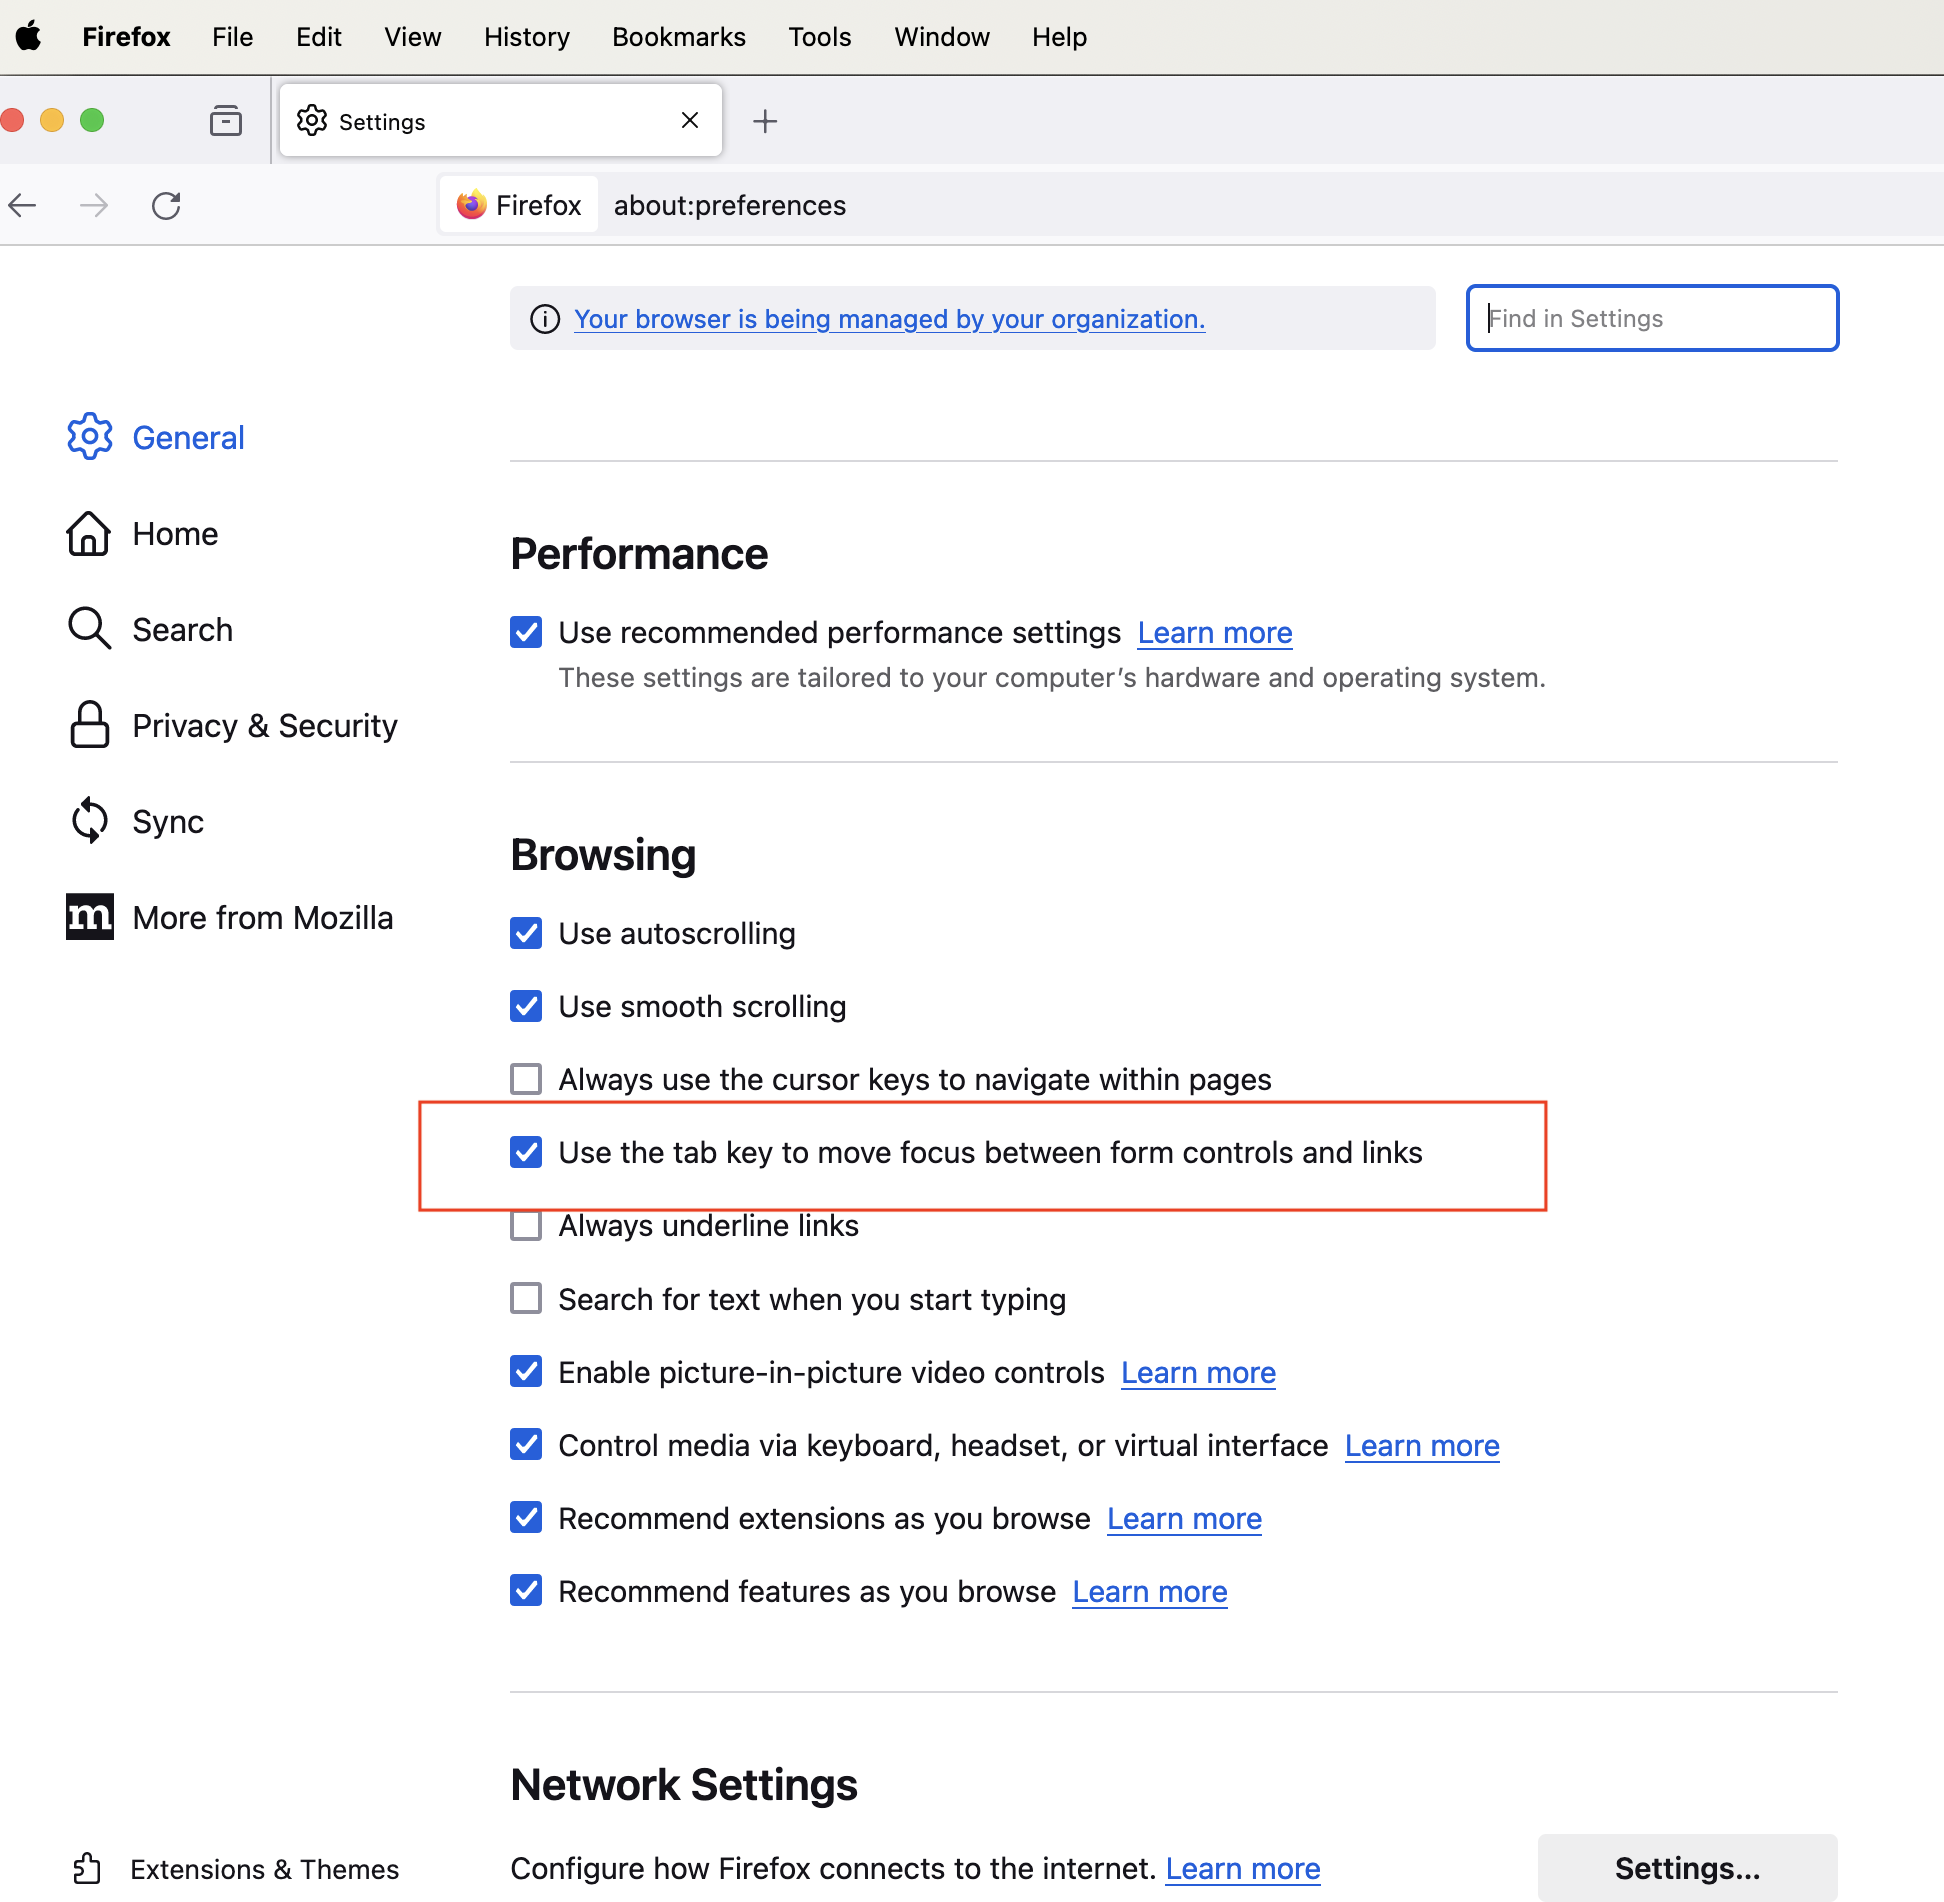
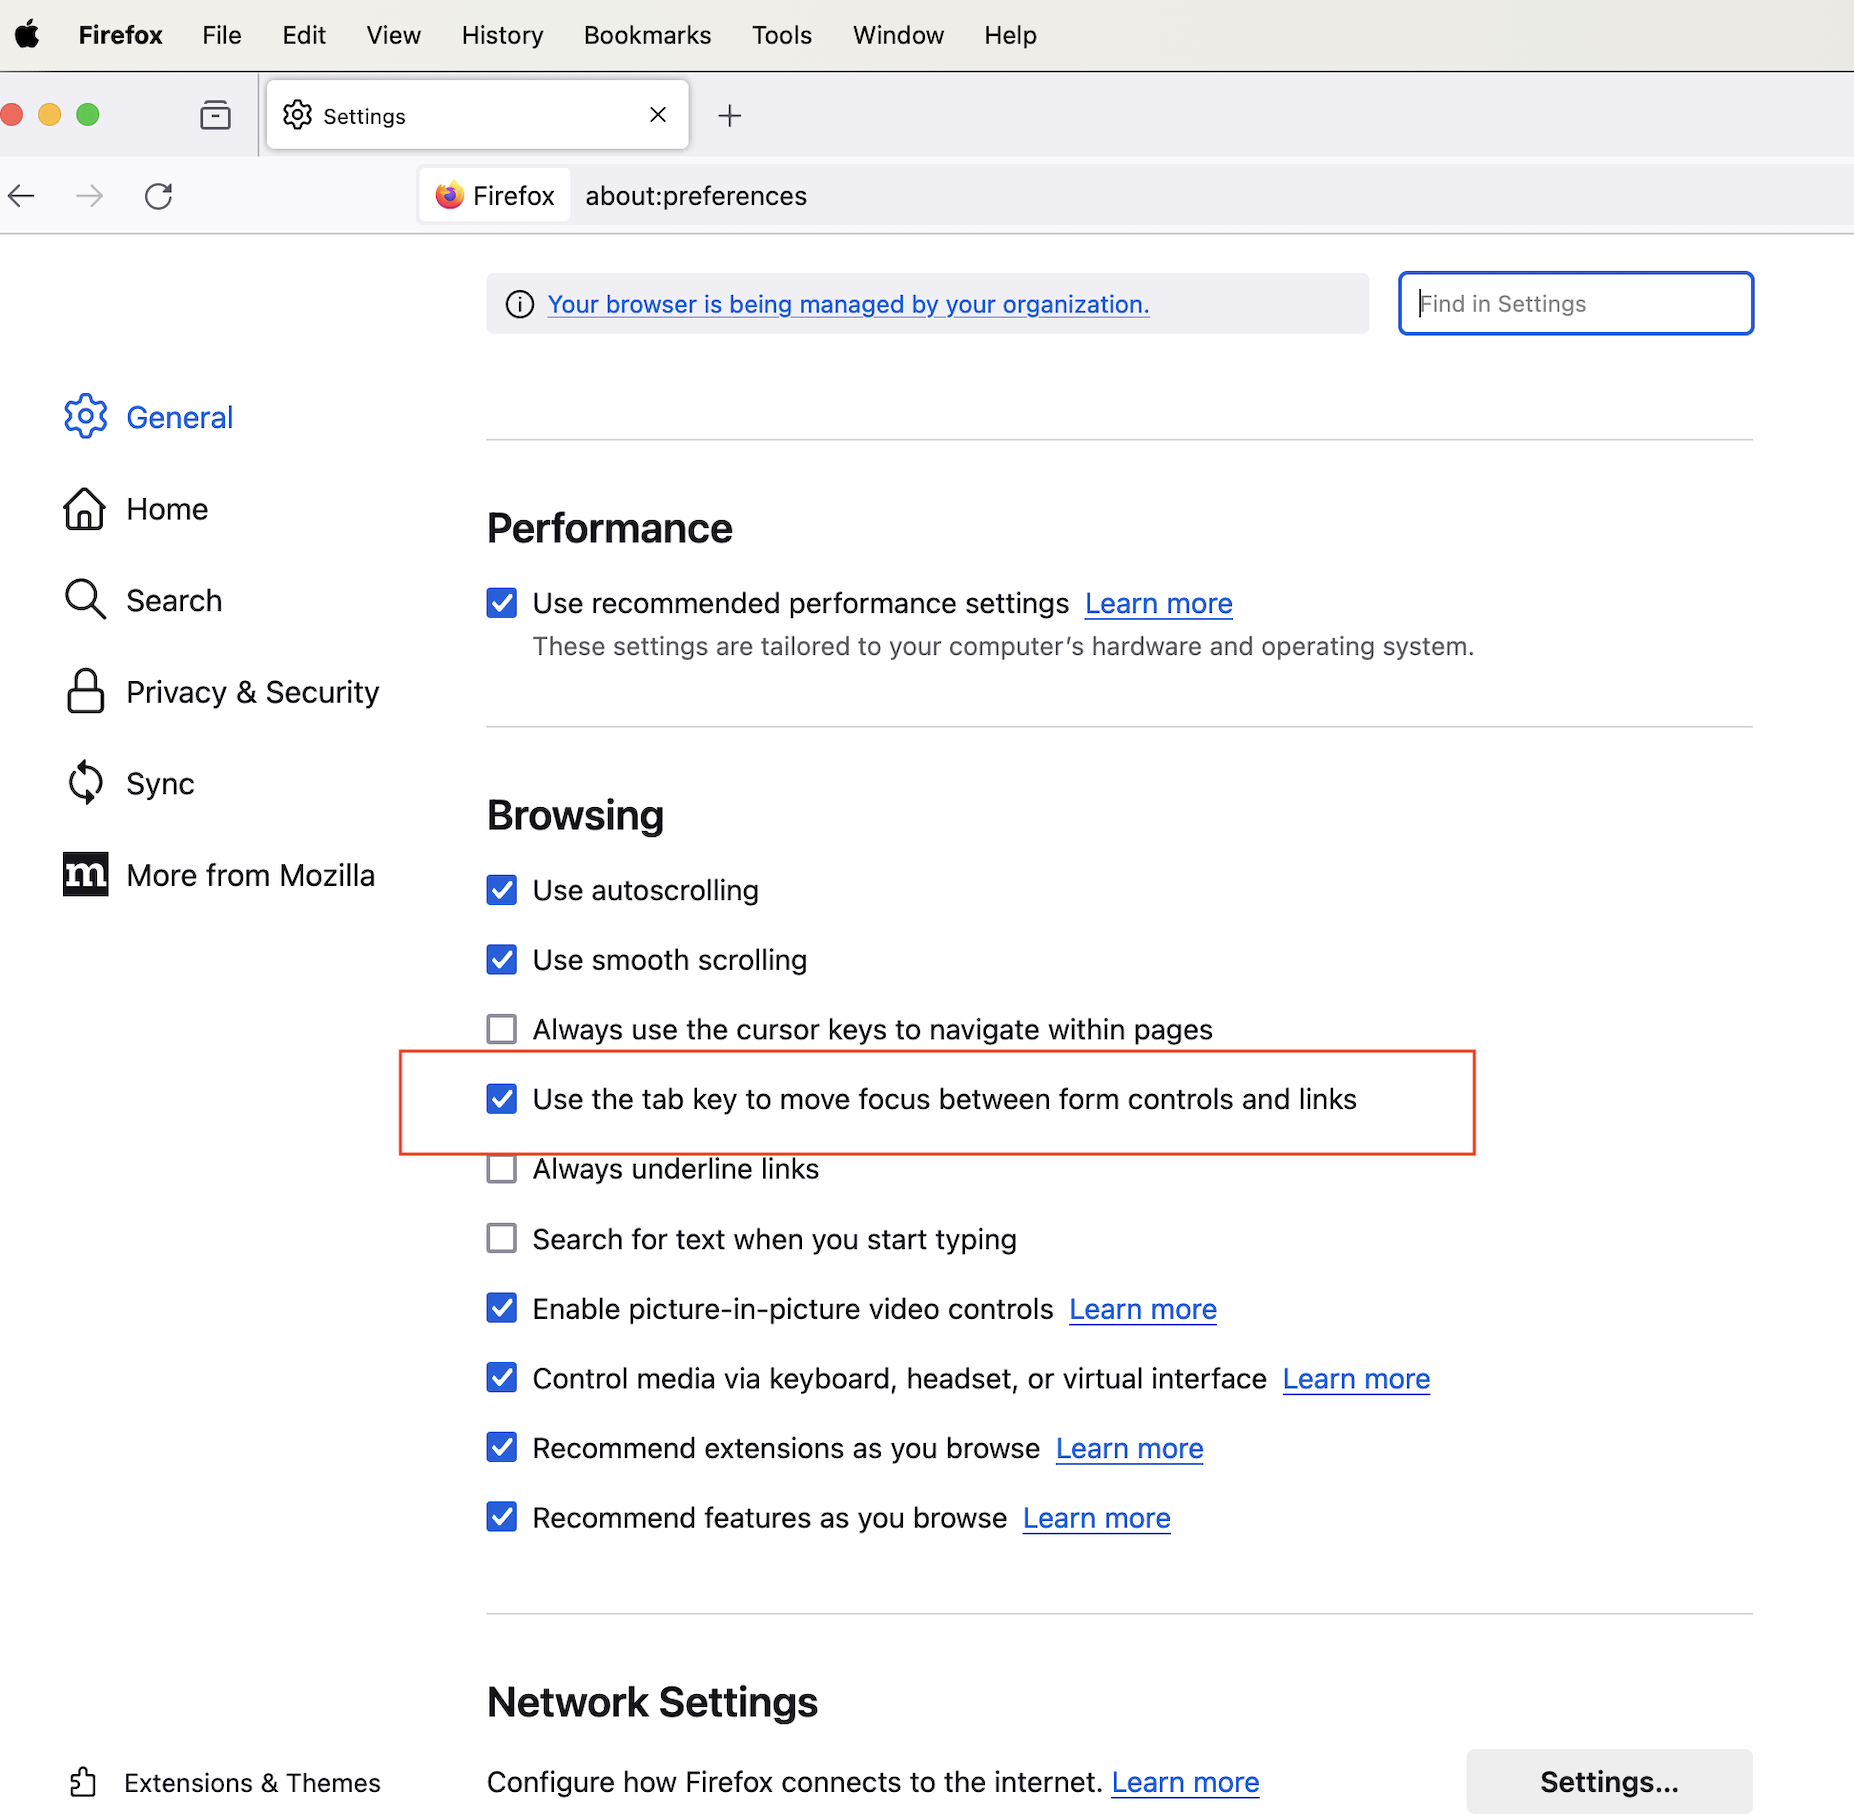
Image height adjusted

diff --git a/docs/build_sites/search_v2_authoring/limitations.md b/docs/build_sites/search_v2_authoring/limitations.md
@@ -23,7 +23,8 @@ Take note of the following limitations when using Search V2 Authoring:
 - To ensure full accessibility on the Search page, the user's browser-specific settings for keyboard navigation must be enabled.
 
     See the keyboard navigation setting for Firefox below.
-    ![](../../assets/HCL_Search_Browser_Safari_Settings.png){: style="height:600px"}
+    ![](../../assets/HCL_Search_Browser_Safari_Settings.png)
 
     See the keyboard navigation setting for Safari below.
-    ![](../../assets/HCL_Search_Browser_Firefox_Settings.png){: style="height:600px"}
+
+    ![](../../assets/HCL_Search_Browser_Firefox_Settings.png)

diff --git a/docs/build_sites/search_v2_authoring/access.md b/docs/build_sites/search_v2_authoring/access.md
@@ -23,8 +23,6 @@ Open the side navigation panel, and select **Authoring**.
 
 Refer to the Search V2 Authoring user interface below and click the search button to open the search dialog.
 
-    ![](../../assets/HCL_SearchV2_Authoring_Access_03.png "See the Search V2 Authoring user interface")
-
 ![](../../assets/HCL_SearchV2_Authoring_Initial_State.png "See the Search V2 Authoring initial state")
 
 ## The Search V2 Authoring UI
